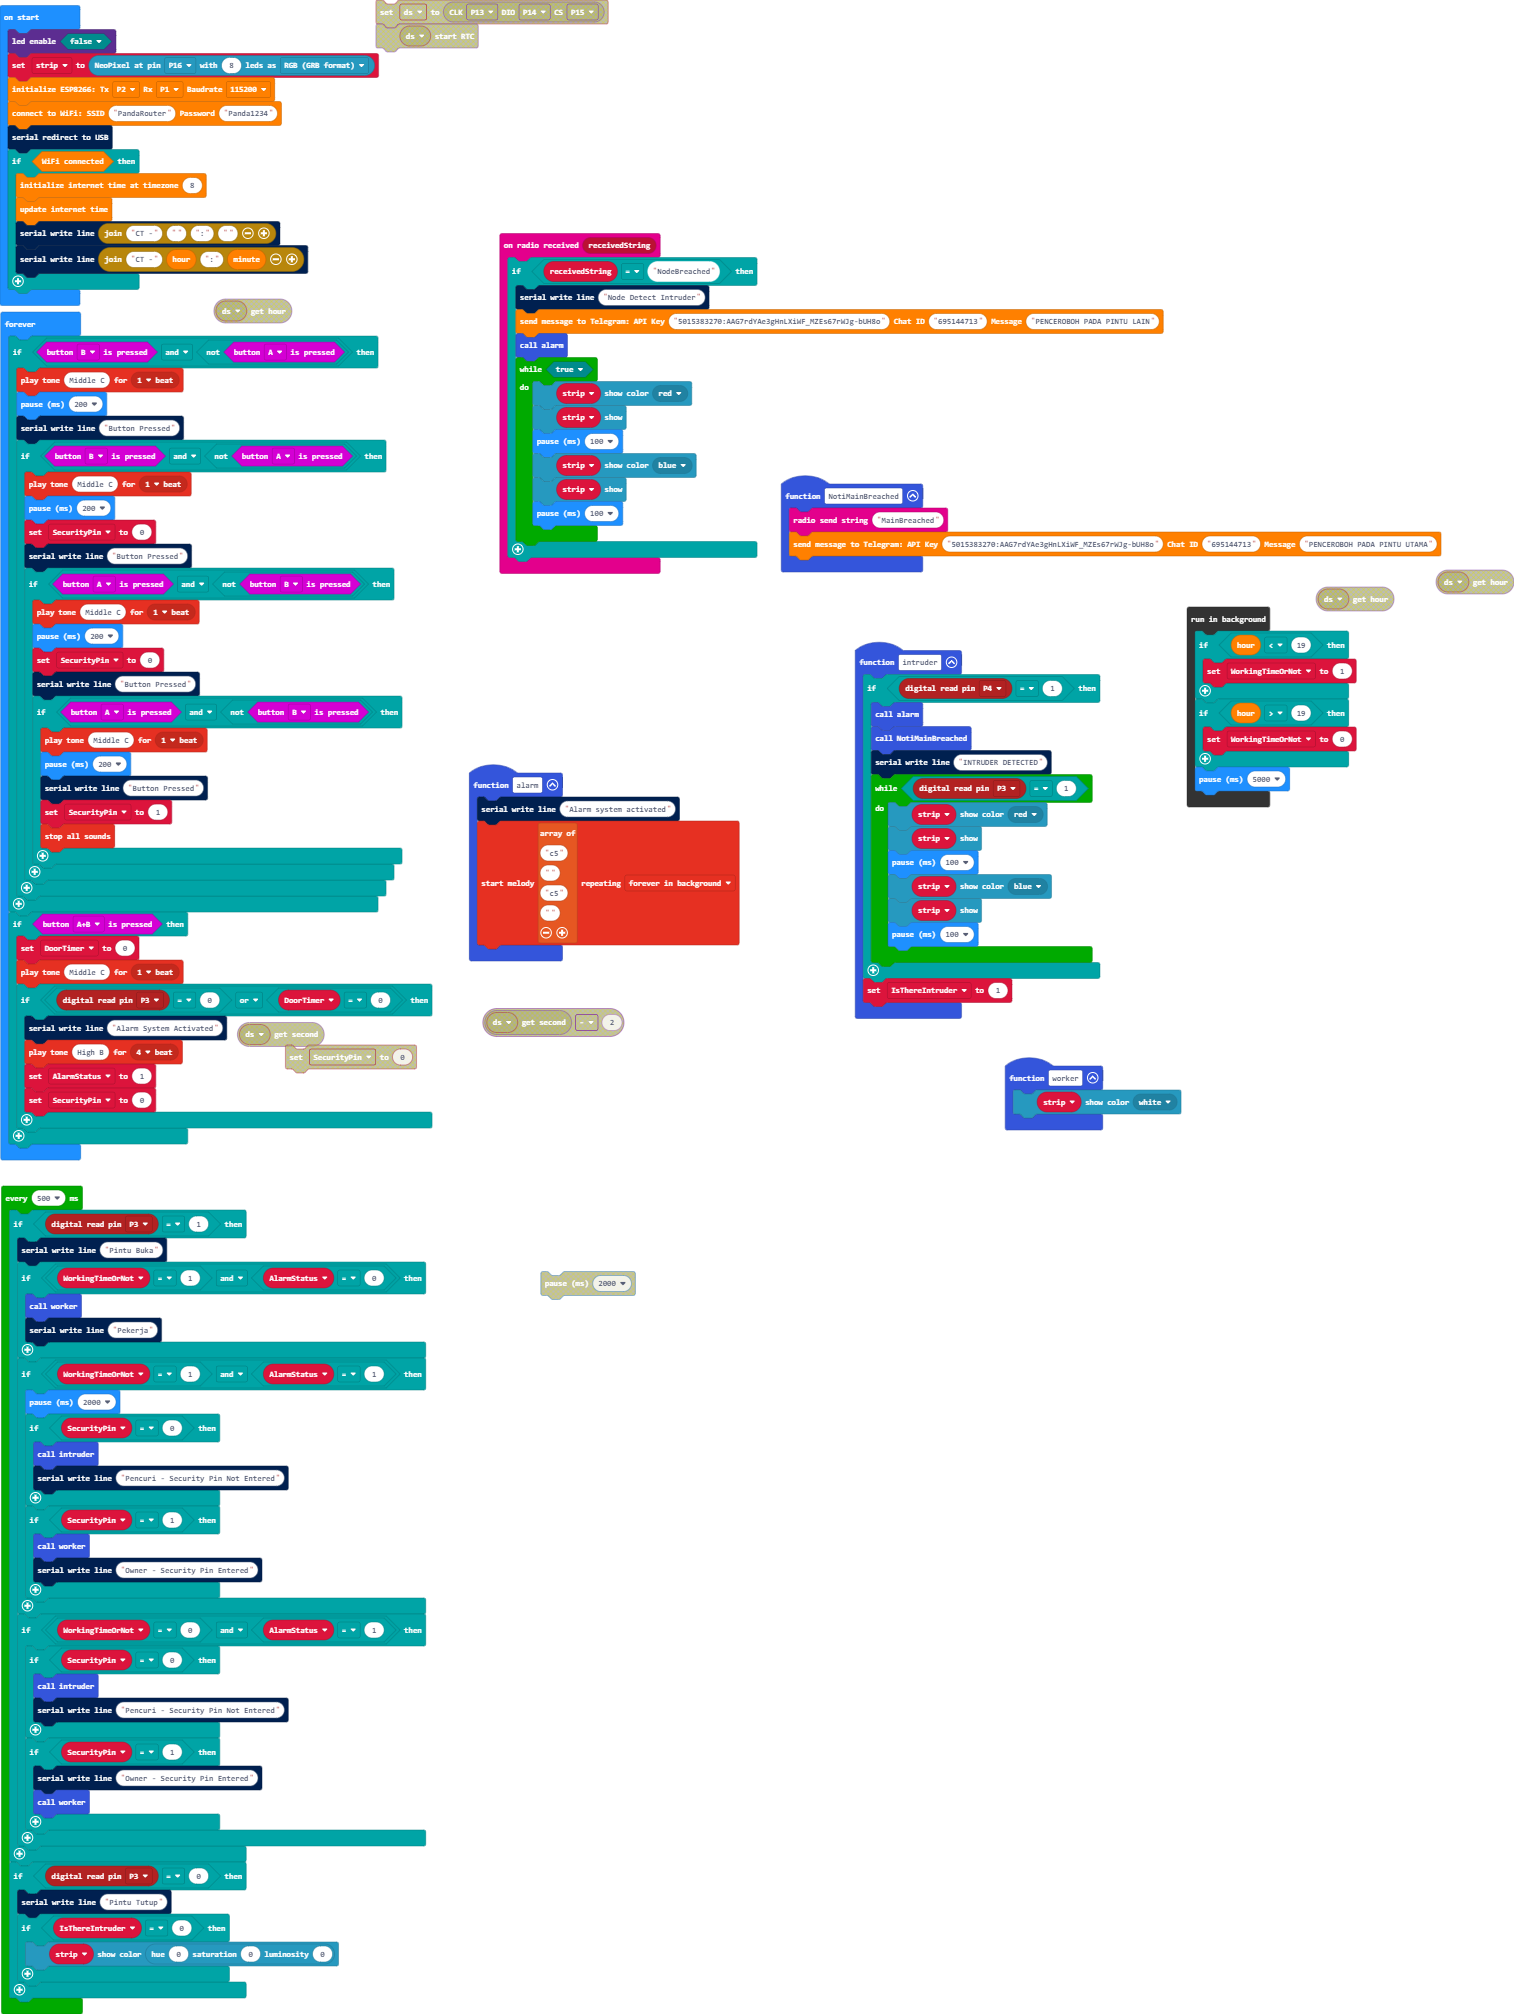
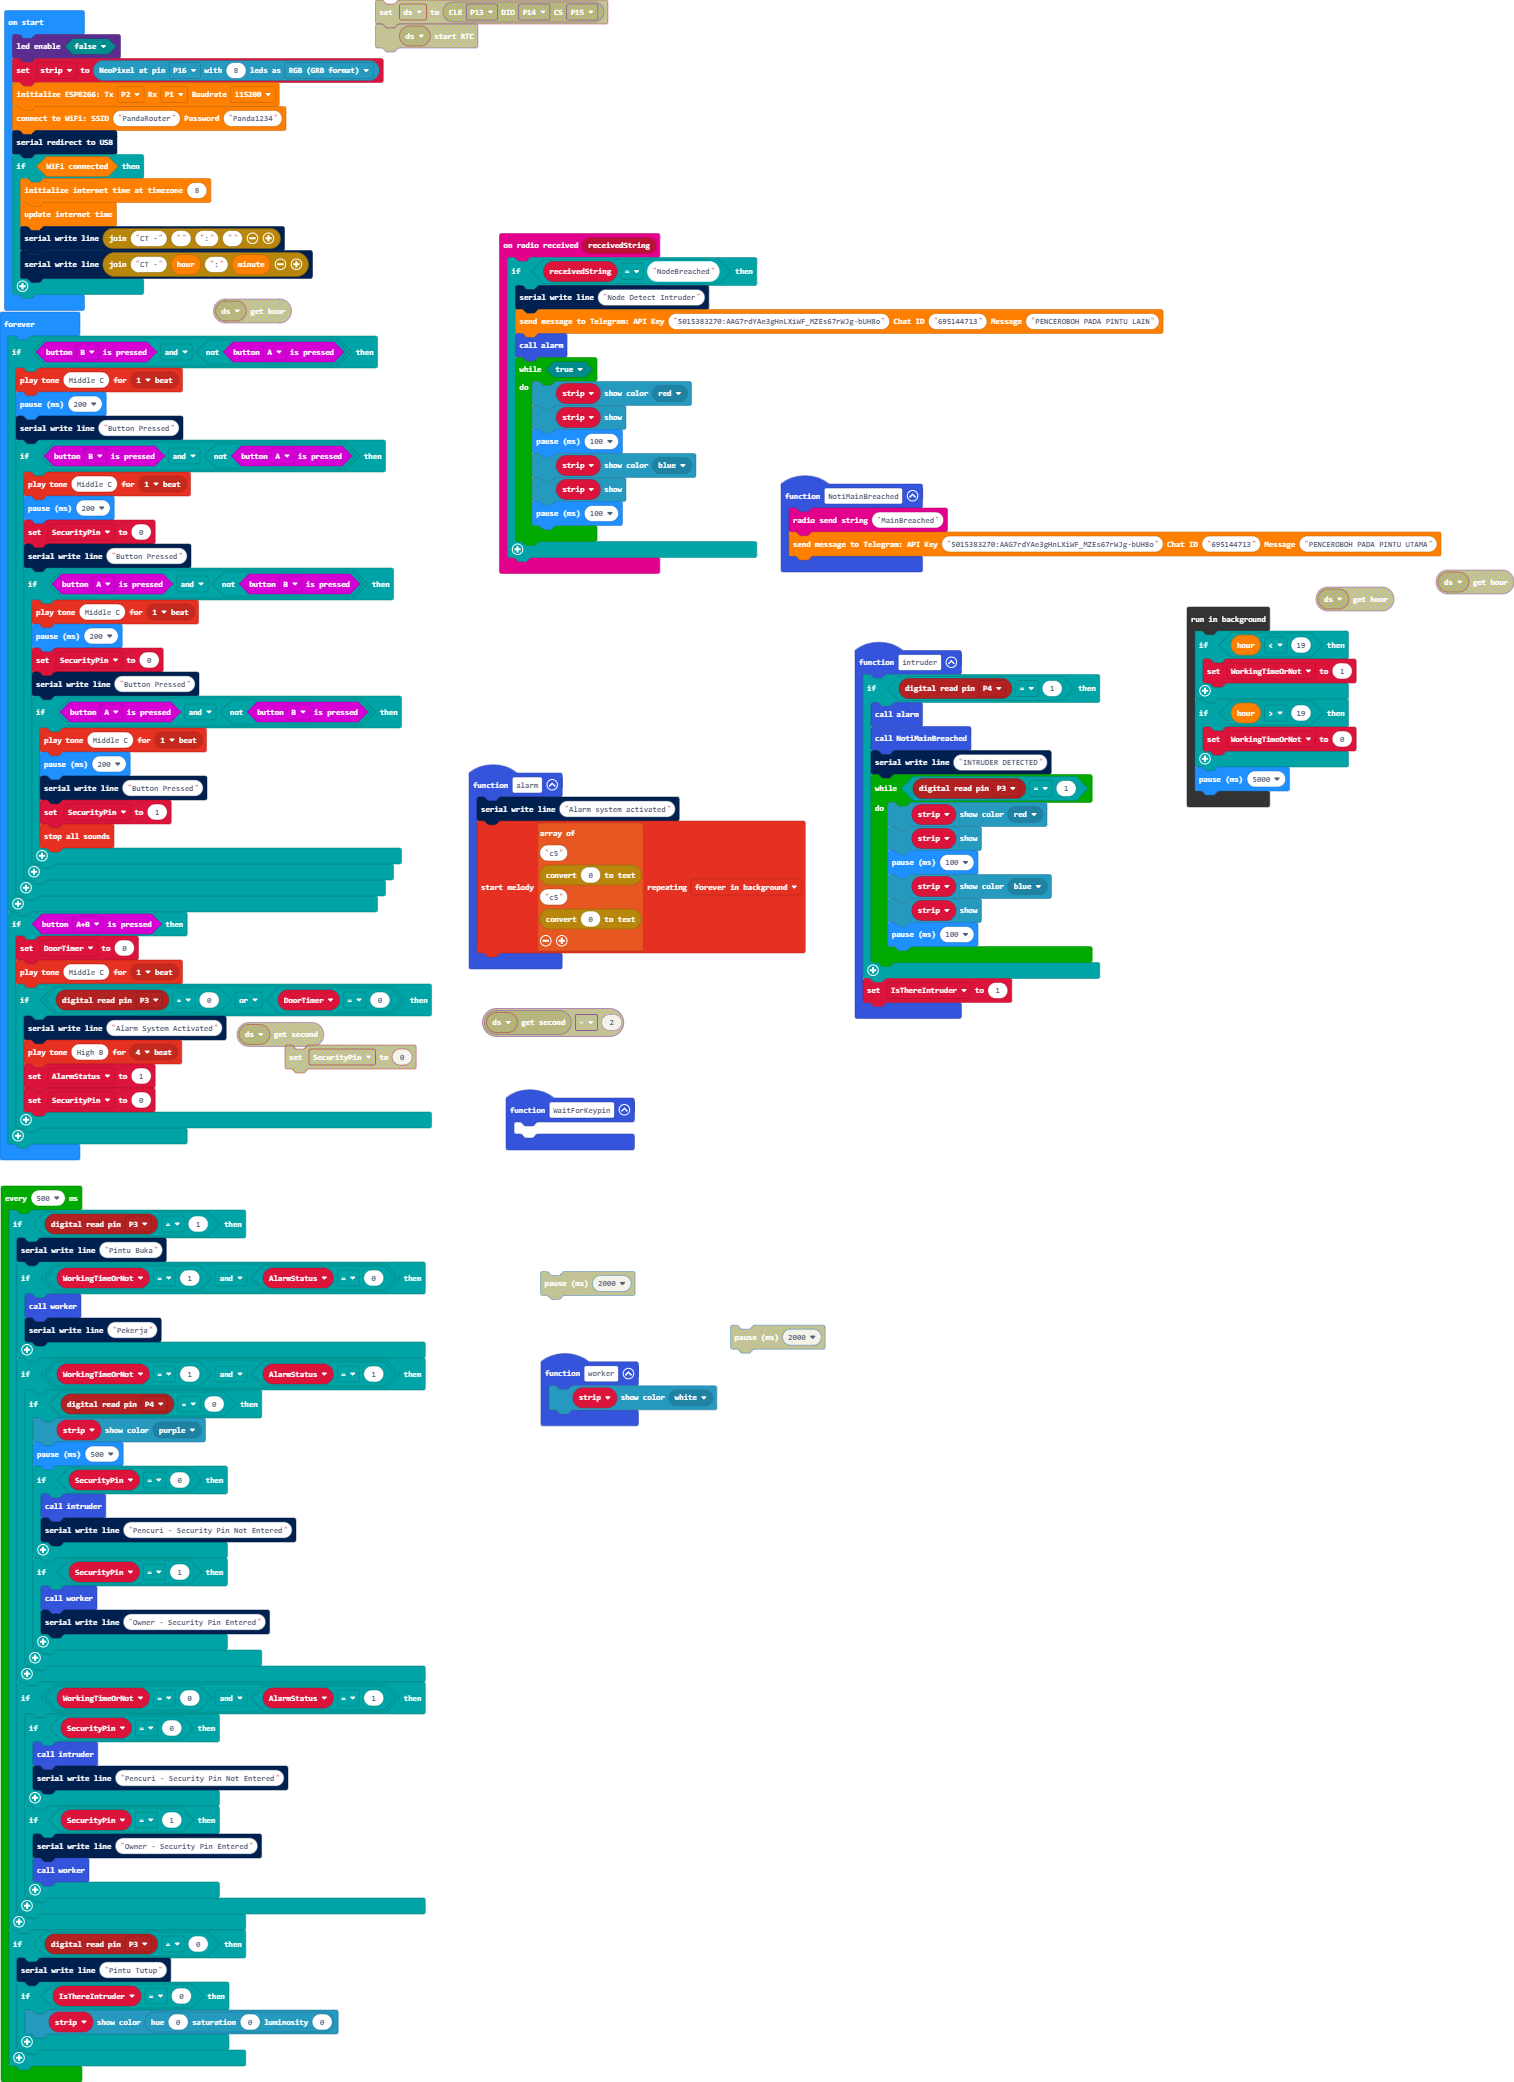
GRRR

Changed region(s): [[0.0, 0.0, 1.0, 1.0], [0.3415, 0.5849, 0.5588, 0.708], [0.6519, 0.5233, 0.7761, 0.5849]]

diff --git a/main.ts b/main.ts
@@ -22,10 +22,13 @@ function alarm () {
     serial.writeLine("Alarm system activated")
     music.startMelody([
     "c5",
-    "",
+    convertToText(0),
     "c5",
-    ""
+    convertToText(0)
     ], MelodyOptions.ForeverInBackground)
+}
+function WaitForKeypin () {
+	
 }
 radio.onReceivedString(function (receivedString) {
     if (receivedString == "NodeBreached") {
@@ -70,14 +73,17 @@ loops.everyInterval(500, function () {
             serial.writeLine("Pekerja")
         }
         if (WorkingTimeOrNot == 1 && AlarmStatus == 1) {
-            basic.pause(2000)
-            if (SecurityPin == 0) {
-                intruder()
-                serial.writeLine("Pencuri - Security Pin Not Entered")
-            }
-            if (SecurityPin == 1) {
-                worker()
-                serial.writeLine("Owner - Security Pin Entered")
+            if (pins.digitalReadPin(DigitalPin.P4) == 0) {
+                strip.showColor(neopixel.colors(NeoPixelColors.Purple))
+                basic.pause(500)
+                if (SecurityPin == 0) {
+                    intruder()
+                    serial.writeLine("Pencuri - Security Pin Not Entered")
+                }
+                if (SecurityPin == 1) {
+                    worker()
+                    serial.writeLine("Owner - Security Pin Entered")
+                }
             }
         }
         if (WorkingTimeOrNot == 0 && AlarmStatus == 1) {
